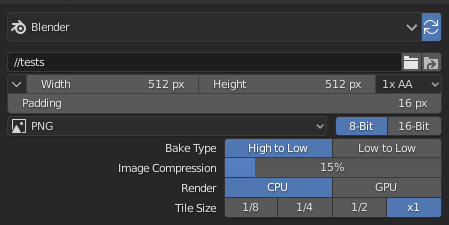
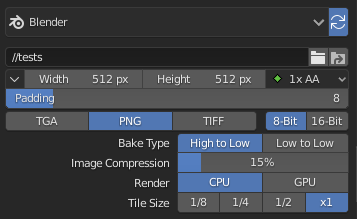
changes to baker settings

diff --git a/baker.py b/baker.py
@@ -229,19 +229,26 @@ class EZB_Baker(bpy.types.PropertyGroup):
         col = layout.column(align=True)
         row = col.row(align=True)
         row.operator_menu_enum('ezb.select_texture_size', 'size', text='', icon='DOWNARROW_HLT')
-        split = row.split(align=True, factor=0.85)
+        split = row.split(align=True, factor=0.75)
         row2 = split.row(align=True)
         row2.prop(self, 'width', text='Width')
         row2.prop(self, 'height', text='Height')
-        split.prop(self, 'supersampling', text='')
+
+        supersampling_icon = 'KEYTYPE_JITTER_VEC'
+        if self.supersampling == 'x4':
+            supersampling_icon = 'KEYTYPE_KEYFRAME_VEC'
+        elif self.supersampling == 'x16':
+            supersampling_icon = 'KEYTYPE_EXTREME_VEC'
+
+        split.prop(self, 'supersampling', text='', icon=supersampling_icon)
 
         row = col.row(align=True)
         row.prop(self, 'padding', text='Padding', expand=False)
 
     def draw_image_type_settings(self, layout, context):
         split = layout.split(factor=0.75)
-
-        split.prop(self.child_device, 'image_format', text='', icon='IMAGE_DATA')
+        row = split.row()
+        row.prop(self.child_device, 'image_format', icon='IMAGE_DATA', expand=True)
 
         row = split.row(align=True)
         row.enabled = self.child_device.image_format != 'TARGA' and self.child_device.image_format != 'TGA'
